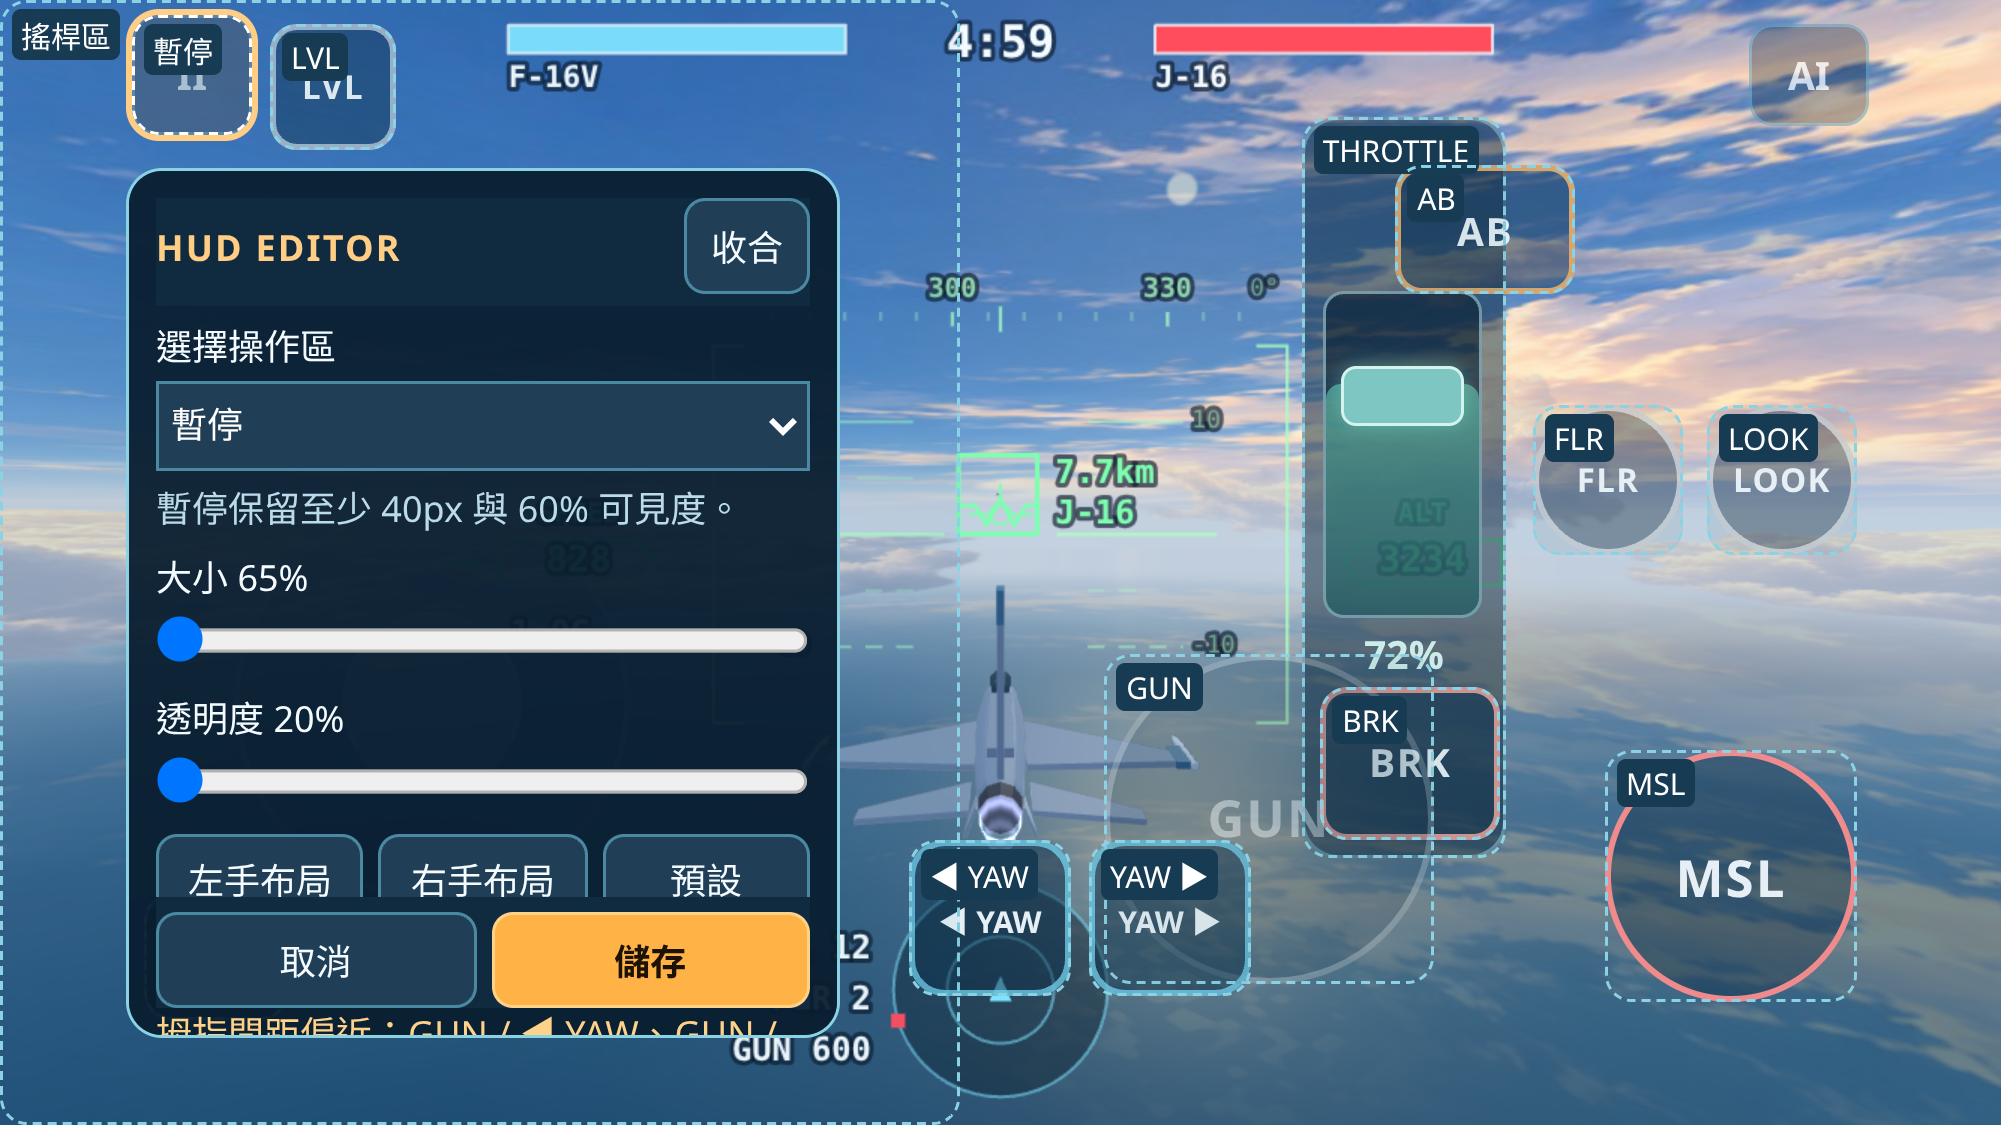
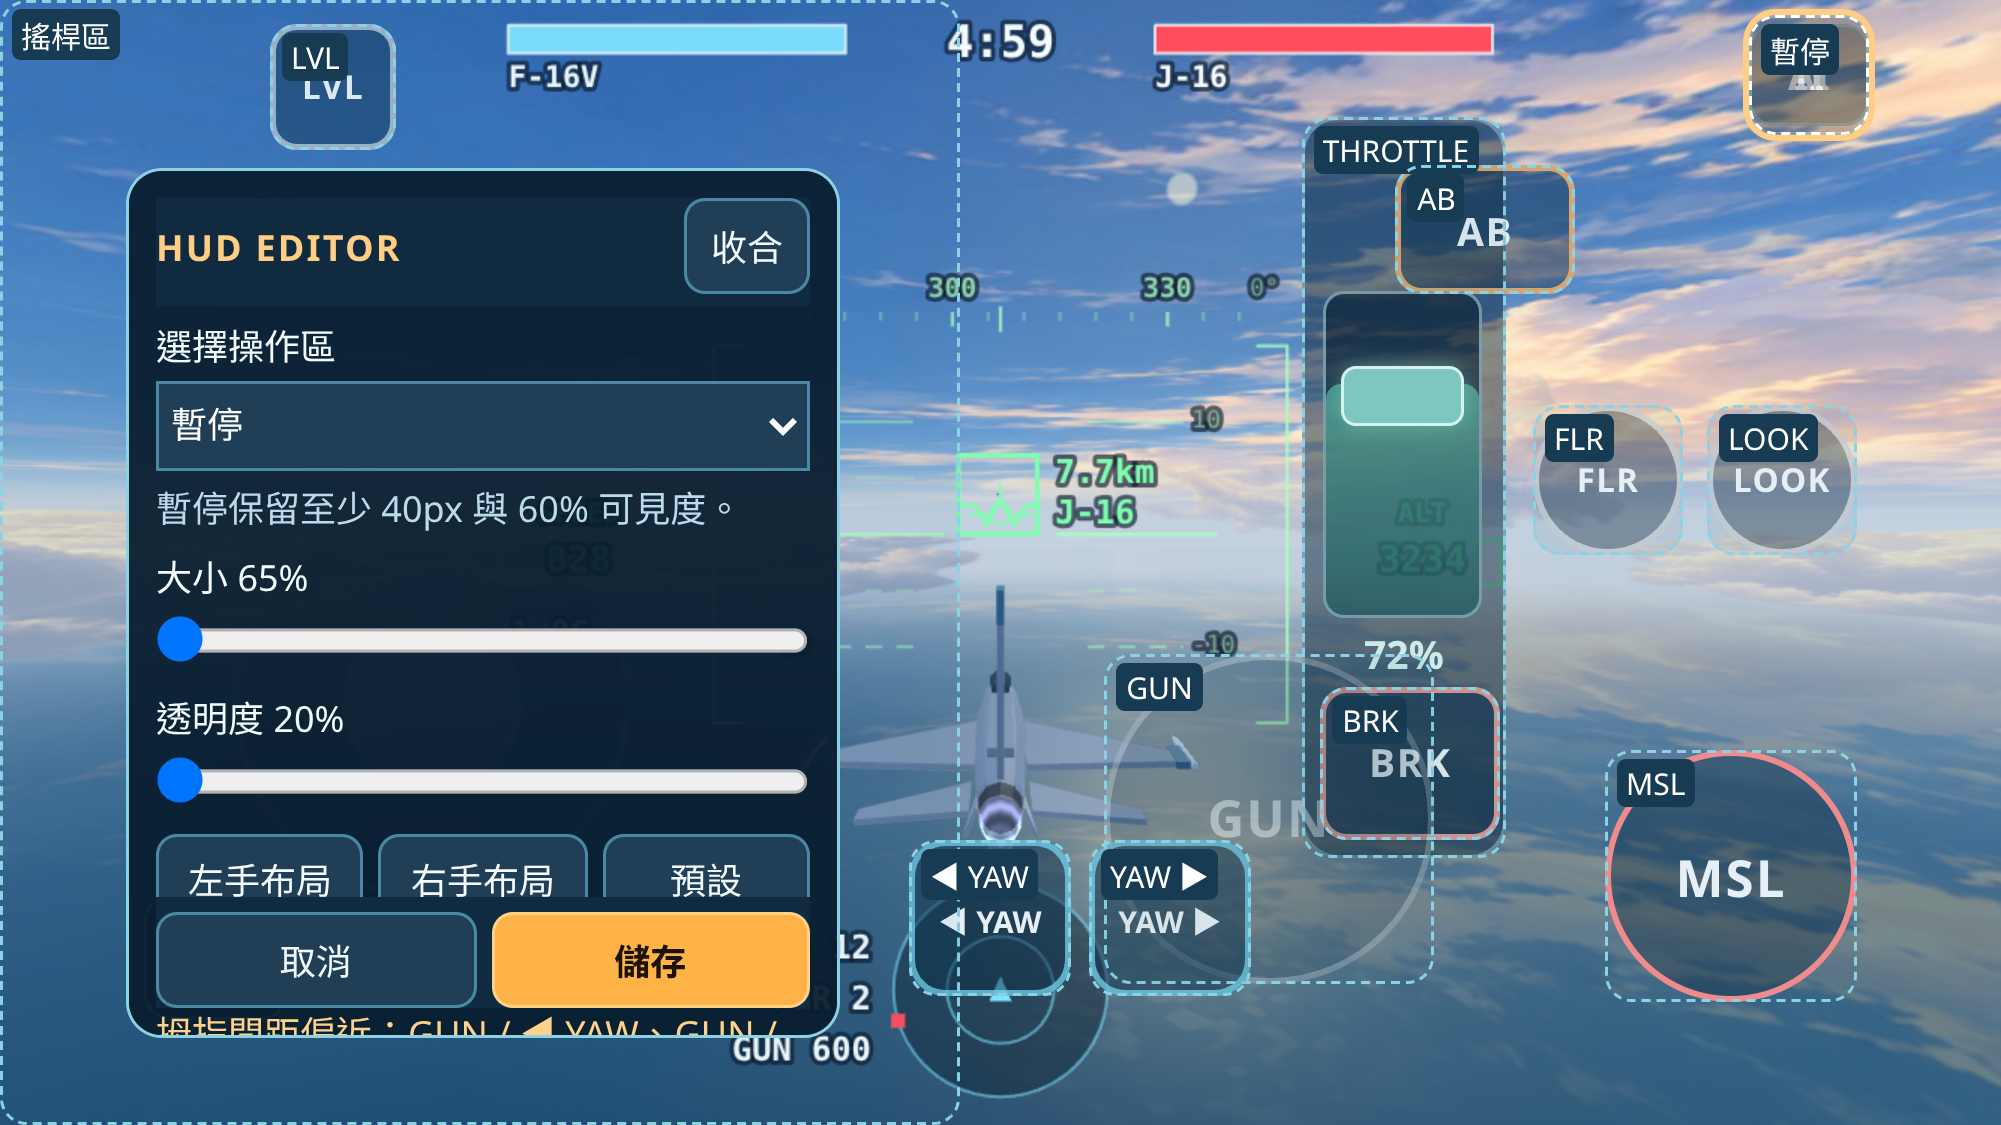
fix(ace): keep the custom pause key reachable above debug controls

Changed region(s): [[0.8676, 0.0, 0.9605, 0.1244], [0.062, 0.0, 0.1549, 0.1244], [0.4648, 0.7156, 0.5267, 0.7467]]

diff --git a/prototypes/ace-to-ace/style.css b/prototypes/ace-to-ace/style.css
@@ -309,3 +309,5 @@ h2.win { color: var(--go); } h2.lose { color: var(--red); }
 #hudEditor.folded .hud-edit-head strong, #hudEditor.folded .hud-toolbar > .hud-edit-row { display:none; }
 #hudEditor.folded #hudFold { min-width:48px; min-height:40px; }
 #hudEditor.folded .hud-handle span { visibility:hidden; }
+/* A custom menu position must remain usable even over AI/debug or weapons. */
+#pauseBtn { z-index:8; }

diff --git a/prototypes/ace-to-ace/docs/mobile-controls-v2.md b/prototypes/ace-to-ace/docs/mobile-controls-v2.md
@@ -172,3 +172,9 @@ the new neutral sample, rather than assuming CDP's acknowledgement is delivery.
 
 ![Actual editor, 667px CSS with safe areas](screens/mobile-controls-v2/hud-editor-667-safe.png)
 ![Left-hand preview with collapsed tools](screens/mobile-controls-v2/hud-left-667-safe.png)
+
+Menu guard: the pause key renders above AI/debug and weapon controls. The browser
+matrix drags it onto the AI key, applies 65% requested size/20% requested opacity,
+and still operates Pause after save/reload (actual minimum 40px/60%). A focused
+667px Expert rerun passed this guard plus native range drags, desktop restoration
+and storage fallback. CI runs the complete unfiltered eight-case matrix.
